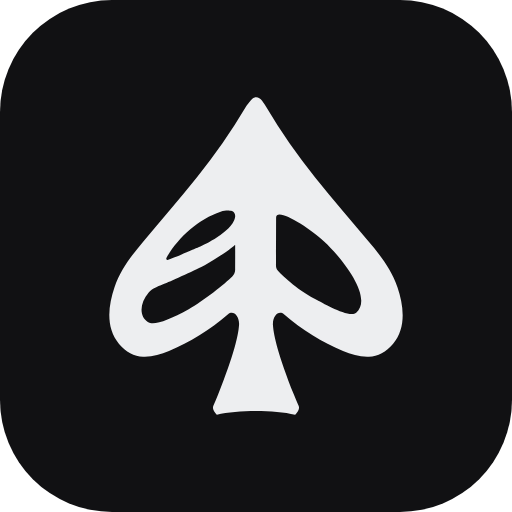
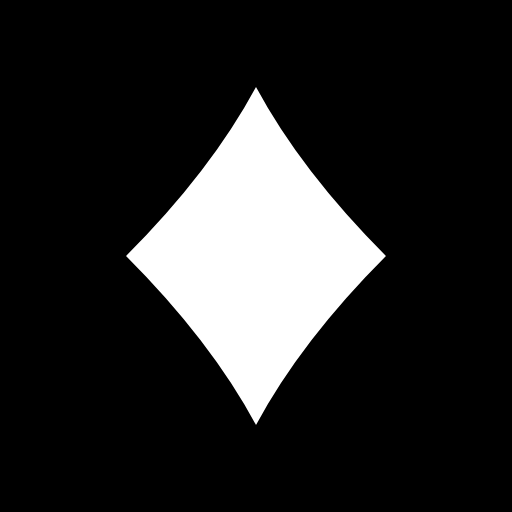
Swap the spade mark for a diamond and add an About page
The EP-cut spade read as tacky. The mark is now a plain card diamond, drawn
by the header and exported white-on-black to every icon by a script, so the
static icons can no longer drift from the source. The site had nowhere that
said what it is or who made it.

diff --git a/client/src/ui/logo.tsx b/client/src/ui/logo.tsx
@@ -1,48 +1,21 @@
-/* The EveryonePoker mark: a spade with an EP cut out of it.
+/* The EveryonePoker mark: a card diamond, four points with the sides drawn
+   slightly in, the way a printed suit is. It replaced the spade with an EP cut
+   out of it on 2026-09-23 ("for now"): the owner found the spade tacky.
 
-   One path, with the letterforms as real holes (fill-rule evenodd), so the
-   mark is a single colour and the page shows through the counters. That is
-   what lets it take `currentColor` and come out right on both themes, where
-   the drawn artwork (a black spade with white letters painted on top) went
-   invisible on the dark ground.
-
-   Two corrections to the drawn artwork, both deliberate:
-
-   - The spade closed on an implicit straight line, a dead level 126 unit edge
-     that read as a machine cut under otherwise organic curves. The close is
-     now an explicit shallow curve, so the stem flares into a pedestal.
-   `solid` drops the counters entirely, for sizes where they close up: below
-   roughly 20px the E's strokes are under a pixel each. A solid
-   spade still reads as the same mark.
-
-   The spade is symmetric to within antialiasing: row midpoints average 499.6
-   of a perfect 499.5 on a 1000px raster.
+   One single-colour path taking `currentColor`, so it comes out right on every
+   theme with no per-theme rule. The viewBox is the ink exactly, so a consumer
+   matches it to text by setting a height and trusting the box.
 
    These constants are the geometry's only home in the repo. `public/logo.svg`,
-   the favicon and the icon PNGs are exports of them; regenerate rather than
-   edit, or they drift.
+   the favicon, the icon PNGs and og.png are exports of them made by
+   `node scripts/icons.mjs`; regenerate rather than edit, or they drift. The
+   exports are white on black whatever the theme. */
+export const LOGO_VIEWBOX = '0 0 40 52';
+export const LOGO_PATH = 'M20 0Q27 13 40 26Q27 39 20 52Q13 39 0 26Q13 13 20 0Z';
 
-   Upright. A 45 degree tilt was tried and dropped: rotated, the silhouette
-   reads as a paper plane rather than a card suit, and the stem becomes a
-   tail. If it is ever tried again, the viewBox has to be the ROTATED ink
-   measured off a raster, not getBBox, whose control points sit outside a
-   rotated curve and would leave slack exactly where this crop allows none.
-
-   Cropped from Main 01 Artboard 1.svg, whose 1920x1080 artboard was almost
-   entirely whitespace: the viewBox is the ink exactly, zero slack on all four
-   sides, which is what lets a consumer match the mark to text by setting a
-   height and trusting the box. */
-export const LOGO_VIEWBOX = '0 0 473.01 511.82';
-export const LOGO_TRANSFORM = 'translate(-697.96 -207.52)';
-export const LOGO_PATH = 'M997.38,719.34c0,0,8.85-7.63,5.82-14.31c-2.03-4.46-4.32-9.7-7.65-18.1c-25.49-64.25-32.46-94.85-33.74-111.89 c-1.1-14.62,9.25-24.82,17.71-17.51c29.54,25.55,61.69,45.51,95.23,59.08c13.6,5.5,27.64,9.99,41.81,9.3 c14.18-0.69,28.06-8.1,38.69-20.7c22.03-26.1,17.38-61.79,7.32-91.43c-10.06-29.64-28.45-52.24-46.52-73.69 c-57.79-68.64-117.7-135.29-165.31-217.17c-1.35-2.33-3.84-6-6.46-9.72c-5.03-7.16-12.65-7.6-18.01-1.05 c-3.14,3.83-6.27,7.59-8.09,10.71c-47.61,81.88-107.52,148.53-165.31,217.17c-18.07,21.46-36.46,44.05-46.52,73.69 c-10.06,29.64-14.71,65.33,7.32,91.43c10.63,12.6,24.52,20.01,38.69,20.7c14.18,0.69,28.21-3.8,41.81-9.3 c33.54-13.56,65.69-33.53,95.23-59.08c8.45-7.31,18.81,2.89,17.71,17.51c-1.28,17.04-8.25,47.64-33.74,111.89 c-3.33,8.39-5.62,13.64-7.64,18.09c-3.04,6.68,5.82,14.32,5.82,14.32 C 905,711.26 964,711.26 997.38,719.34 M790.66,465.25c18.69-32.37,51.34-61.7,86.81-73.36c9.73-3.2,16.18-1.35,16.18-1.35 c2.19,0,11.03,3.31,5.43,15.71c-10.36,22.9-54.73,42.04-55.46,42.42c0,0-40.92,17.87-51.52,21.1c-1.26,0.38-2.49-0.66-2.32-1.97 C789.88,467.03,790.11,466.2,790.66,465.25z M900.84,485.8c-0.01,3.89-1.54,7.61-4.25,10.34c-12.02,12.05-46.64,39.81-70.64,52.97 c-33.73,18.49-56.57,26.91-65.97,20.55c-14.57-9.85-12.69-30.99,1.5-47.52c5.47-6.37,18.48-11.31,26.21-14.37 c11.77-4.66,52.9-23.63,64.12-29.56c15.73-8.3,41.14-25.77,48.22-32.31c0.32-0.3,0.83-0.08,0.84,0.36 C900.94,451.88,900.88,475.23,900.84,485.8z M969.55,486.64c-1.84-2.07-2.86-4.76-2.86-7.57c0.04-13.98,0.2-64.11,0.2-77.5c0-17.7,52.03,15.04,76.92,37.96 c28.8,26.53,80.41,90.9,52.2,115.37c-11.01,9.56-56.46-17.24-62.48-20.19C1004.9,520.65,978.15,496.31,969.55,486.64z';
-export const LOGO_SOLID_PATH = 'M997.38,719.34c0,0,8.85-7.63,5.82-14.31c-2.03-4.46-4.32-9.7-7.65-18.1c-25.49-64.25-32.46-94.85-33.74-111.89 c-1.1-14.62,9.25-24.82,17.71-17.51c29.54,25.55,61.69,45.51,95.23,59.08c13.6,5.5,27.64,9.99,41.81,9.3 c14.18-0.69,28.06-8.1,38.69-20.7c22.03-26.1,17.38-61.79,7.32-91.43c-10.06-29.64-28.45-52.24-46.52-73.69 c-57.79-68.64-117.7-135.29-165.31-217.17c-1.35-2.33-3.84-6-6.46-9.72c-5.03-7.16-12.65-7.6-18.01-1.05 c-3.14,3.83-6.27,7.59-8.09,10.71c-47.61,81.88-107.52,148.53-165.31,217.17c-18.07,21.46-36.46,44.05-46.52,73.69 c-10.06,29.64-14.71,65.33,7.32,91.43c10.63,12.6,24.52,20.01,38.69,20.7c14.18,0.69,28.21-3.8,41.81-9.3 c33.54-13.56,65.69-33.53,95.23-59.08c8.45-7.31,18.81,2.89,17.71,17.51c-1.28,17.04-8.25,47.64-33.74,111.89 c-3.33,8.39-5.62,13.64-7.64,18.09c-3.04,6.68,5.82,14.32,5.82,14.32 C 905,711.26 964,711.26 997.38,719.34';
-
-/* Height only. The mark is 473 x 512, so pinning both axes to one number
-   letterboxes it inside its own box and reintroduces the whitespace the crop
-   removed. Width is left to the aspect ratio. */
-export function Logo({ height, solid = false, className }: {
+/* Height only. Width is left to the aspect ratio. */
+export function Logo({ height, className }: {
   height?: number | string;
-  solid?: boolean;
   className?: string;
 }) {
   return (
@@ -50,16 +23,10 @@ export function Logo({ height, solid = false, className }: {
       className={className}
       viewBox={LOGO_VIEWBOX}
       height={height}
-      role="img"
-      aria-label="EveryonePoker"
+      aria-hidden="true"
       focusable="false"
     >
-      <path
-        fill="currentColor"
-        fillRule="evenodd"
-        transform={LOGO_TRANSFORM}
-        d={solid ? LOGO_SOLID_PATH : LOGO_PATH}
-      />
+      <path fill="currentColor" d={LOGO_PATH} />
     </svg>
   );
 }

diff --git a/client/src/routes/about.tsx b/client/src/routes/about.tsx
@@ -1,0 +1,48 @@
+import { Link } from 'react-router-dom';
+import { useTitle } from '../ui/title.ts';
+import './learn/learn.css';
+
+/* What the site is and who made it. Plain prose on the lesson layout's
+   `.prose`, so it reads like the rest of the written pages. The description
+   in server/src/meta.ts says the same thing in one line. */
+export function About() {
+  useTitle('About');
+  return (
+    <main className="page stack">
+      <h1 className="h1">About</h1>
+      <div className="prose">
+        <p>
+          EveryonePoker is free no-limit hold'em with a rating. No money changes hands, there are no
+          ads and there is no rake. You play for the number next to your name and for the game itself.
+        </p>
+
+        <h2>What is here</h2>
+        <ul>
+          <li>Heads-up matches and six-max sit-and-gos, fast or standard, ranked or casual.</li>
+          <li>Practice tables against bots at seven levels, from a calling station to a solver.</li>
+          <li>Tournaments, hourly arenas, challenge links and home games for playing friends.</li>
+          <li>
+            <Link to="/learn">Lessons</Link>, <Link to="/puzzles">daily puzzles</Link>,{' '}
+            <Link to="/tools">tools</Link>, and a replay of every hand you play.
+          </li>
+        </ul>
+
+        <h2>Fair by construction</h2>
+        <p>
+          Every deck is committed to before it is dealt and published afterwards, so any hand can be
+          checked in your own browser. <Link to="/learn/fair">How that works</Link>. Ratings are
+          Glicko-2, explained on <Link to="/learn/rating">how the rating works</Link>.
+        </p>
+
+        <h2>Who made it</h2>
+        <p>
+          Built by <a href="https://gabrielpenman.com" target="_blank" rel="noreferrer">Gabriel Penman</a>,
+          after wanting a poker site that felt the way lichess feels for chess: free, quick to start
+          and honest about how it works. The code is{' '}
+          <a href="https://github.com/Volcanex/opentable" target="_blank" rel="noreferrer">open source</a>,
+          and that is also the place to report a bug or ask for something.
+        </p>
+      </div>
+    </main>
+  );
+}

diff --git a/client/src/ui/shell.tsx b/client/src/ui/shell.tsx
@@ -2,13 +2,14 @@ import { createContext, useContext, useEffect, useRef, useState } from 'react';
 import type { ReactNode } from 'react';
 import { Link, NavLink, useLocation } from 'react-router-dom';
 import {
-  Cards, Eye, GraduationCap, Medal, PuzzlePiece, Ranking, Spade, Trophy, Users, Wrench,
+  Cards, Eye, GraduationCap, Info, Medal, PuzzlePiece, Ranking, Trophy, Users, Wrench,
 } from '@phosphor-icons/react';
 import { AccountMenu } from './auth.tsx';
 import { SettingsMenu } from './settings.tsx';
 import { PlayingPill } from './presence.tsx';
 import { FriendsBadge } from './friends-badge.tsx';
 import { useGInit } from './bits.tsx';
+import { Logo } from './logo.tsx';
 
 /* The top bar's own middle: a match is the one page with actions that belong
    up here rather than in the sidebar, and it needs a real DOM node to portal
@@ -73,6 +74,7 @@ const SECTIONS = [
   { to: '/watch', end: false, label: 'Watch', Icon: Eye },
   { to: '/friends', end: false, label: 'Friends', Icon: Users },
   { to: '/leaderboard', end: false, label: 'Leaderboard', Icon: Ranking },
+  { to: '/about', end: false, label: 'About', Icon: Info },
 ];
 
 /* Whether the sidebar is a sheet right now, which is the sheet route or a
@@ -147,10 +149,7 @@ export function SiteShell({ children }: { children: ReactNode }) {
           onClick={() => (open ? close() : setOpen(true))}
         />
         <Link className="wordmark" to="/">
-          {/* Phosphor's spade, not the drawn mark: a stock suit beside the
-              name while the mark itself is being settled. `ui/logo.tsx` still
-              holds the drawn one and nothing else draws it at the moment. */}
-          <Spade className="wordmark-mark" weight="fill" aria-hidden="true" />
+          <Logo className="wordmark-mark" />
           EveryonePoker
         </Link>
         <span className="spacer" />

diff --git a/client/src/app.tsx b/client/src/app.tsx
@@ -6,6 +6,7 @@ import { Home } from './routes/home.tsx';
 import { Play } from './routes/play.tsx';
 import { Match } from './routes/match.tsx';
 import { Leaderboard } from './routes/leaderboard.tsx';
+import { About } from './routes/about.tsx';
 import { Profile } from './routes/profile.tsx';
 import { Watch } from './routes/watch.tsx';
 import { FriendsPage } from './routes/friends.tsx';
@@ -82,6 +83,7 @@ export function App() {
               <Route path="/t/:id" element={<TournamentPage />} />
               <Route path="/bots" element={<BotsPage />} />
               <Route path="/leaderboard" element={<Leaderboard />} />
+              <Route path="/about" element={<About />} />
               <Route path="/watch" element={<Watch />} />
               <Route path="/friends" element={<FriendsPage />} />
               {learnRoutes}

diff --git a/server/src/meta.ts b/server/src/meta.ts
@@ -82,6 +82,11 @@ export const STATIC_PAGES: Record<string, PageMeta> = {
       'An arena every hour, half an hour long. Join it and you are paired again the moment your match ends.',
     type: 'website',
   },
+  '/about': {
+    title: 'About',
+    description: 'Free ranked no-limit hold\'em with no money, no ads and no rake, a provably fair deck, and open source code.',
+    type: 'website',
+  },
   '/leaderboard': {
     title: 'Leaderboard',
     description: 'The top 100 by rating in each mode. A player joins the board once their deviation settles.',

diff --git a/client/src/ui/site-footer.tsx b/client/src/ui/site-footer.tsx
@@ -13,6 +13,7 @@ export function SiteFooter() {
       <span>
         EveryonePoker, free ranked poker. <Link to="/learn/fair">Provably fair</Link>, no money.
       </span>
+      <Link to="/about">About</Link>
       <Link to="/leaderboard">Leaderboard</Link>
       <a href="https://github.com/Volcanex/opentable" target="_blank" rel="noreferrer">
         Source

diff --git a/client/src/ui/CLAUDE.md b/client/src/ui/CLAUDE.md
@@ -12,13 +12,13 @@ The furniture that is not the table: `shell.tsx` (the site's chrome),
 
 `logo.tsx` is the brand mark, and it is deliberately a project file rather than
 anything in g-system: a logo belongs to the product, not to the shared
-language. It exports the path as a constant and a `<Logo>` that draws it with
-`fill="currentColor"`, so it inherits the colour of whatever it sits in and
-needs no per-theme rule. The EP is cut out of the spade with `fill-rule
-evenodd` rather than painted on top in white, which is the only reason the mark
-survives the dark ground. `client/public/logo.svg`, the favicon and every icon
-PNG are exports of that same constant: regenerate them, never hand-edit them,
-or the shape drifts from the one the site draws.
+language. Since 2026-09-23 it is a card diamond (the EP-cut spade was dropped as
+tacky). It exports the path as a constant and a `<Logo>` that draws it with
+`fill="currentColor"`, so it inherits the colour of whatever it sits in; the
+top bar's wordmark draws it. `client/public/logo.svg`, the favicon, every icon
+PNG and `og.png` are white-on-black exports of that same constant made by
+`node scripts/icons.mjs` (run from `client/`): regenerate them, never hand-edit
+them, or the shape drifts from the one the site draws.
 
 `segmented.tsx` is the two option switcher `/play` is built from, and
 `mode-tabs.tsx` is now that component with the modes in it. An option may
